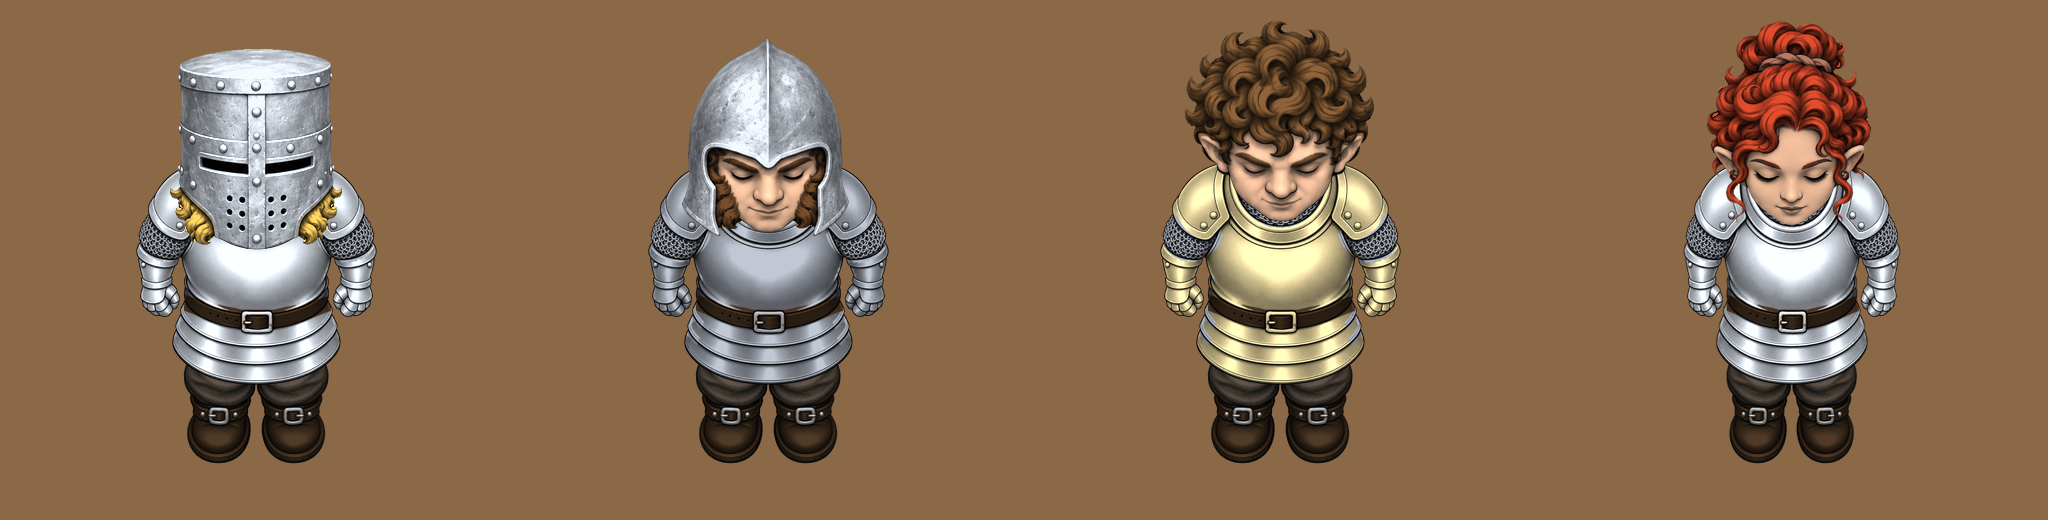
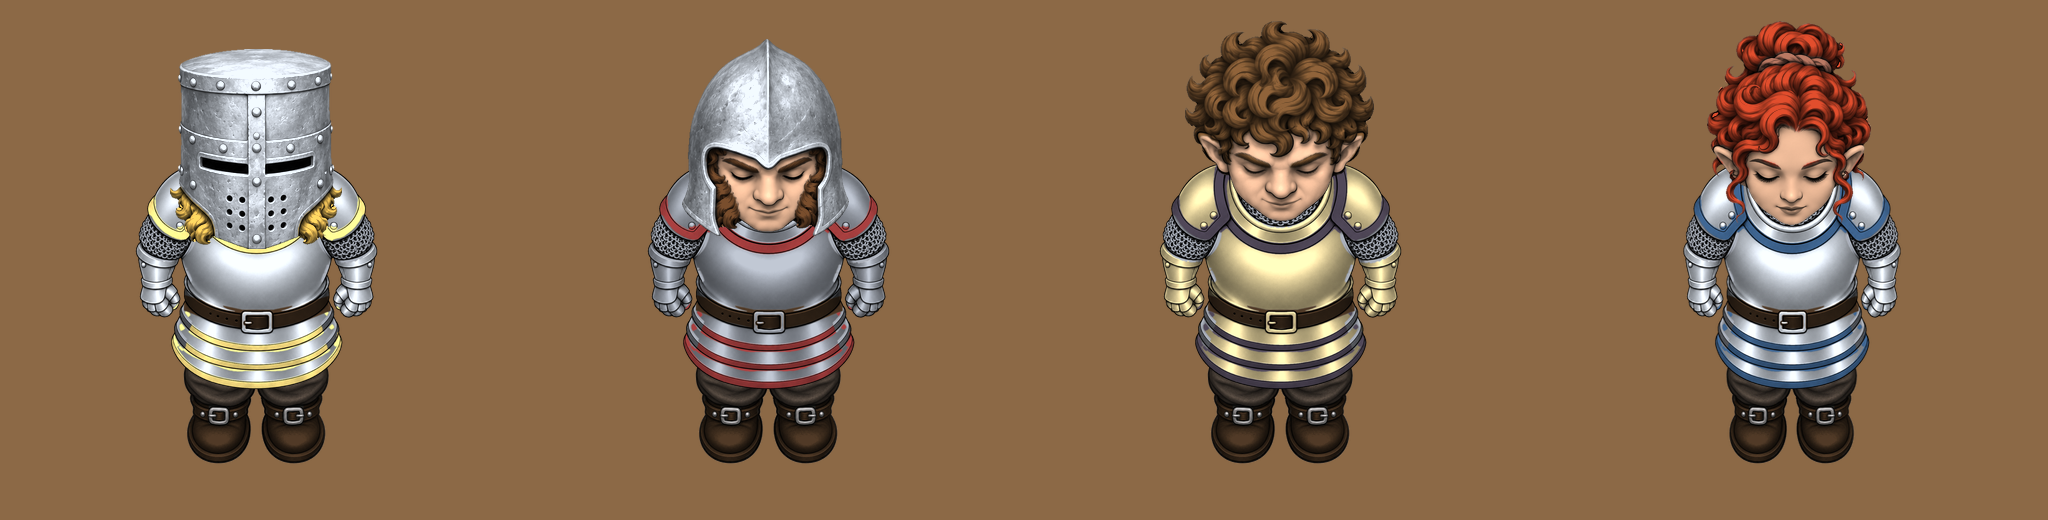
Kit personnages : plates standard à liserés teintables
Claude-Session: https://claude.ai/code/session_01F13QTHtRPRAg87rG7j2jCn

diff --git a/kit-personnages/outils/std.py b/kit-personnages/outils/std.py
@@ -252,7 +252,7 @@ def guard_lantern(P):
     P=paint((A,L),[(4,[(250,548),(462,548),(455,700),(470,800),(470,1260),(250,1260)])]);A,L=P
     box=np.zeros(L.shape,bool);box[1015:1165,300:440]=True;gl=box&(ndi.gaussian_filter(g,1.5)>205);gl=ndi.binary_opening(gl,iterations=2);L[gl]=70;L[A[...,3]<=40]=0;return A,L
 
-def plates(grey='../std/plt_relaxed.png'):
+def plates(grey='../std/plt2_relaxed.png',mp='../std/plt2_relaxed_map.png'):
     """Plates standard. Le calque de GPT a redessiné un autre corps (inutilisable) : tout est métal (4) ; les mailles (15) sont reprises du
     garde là où le dessin est resté grenu (manches, encolure) ; la ceinture (6) est la grande bande sombre du torse."""
     A,_=prep(grey,'../std/grd_relaxed_map.png');A0,L0=guard();al=A[...,3]>40;g=A[...,:3].mean(-1);L=np.where(al,4,0)
@@ -260,4 +260,7 @@ def plates(grey='../std/plt_relaxed.png'):
     # la ceinture : bande courbe relevée sur un gros plan (coordonnées du gros plan -> toile), limitée à ce qui est sombre (la boucle reste en métal)
     Z=[(215,418),(330,452),(450,478),(570,478),(690,452),(800,420),(800,482),(690,524),(570,552),(450,552),(330,524),(215,480)]
     pts=[((130+x/4-256)/.29+625,(230+y/4-229)/.29+360) for x,y in Z];Lb=paint((A,np.where(al,4,0)),[(6,pts)])[1];L[(Lb==6)&(ndi.gaussian_filter(g,1.5)<150)]=6
-    G.update({15:.8,4:.95,6:.75});return A,L
+    # liserés (14) : bandes mates et foncées, plus larges qu'un trait ; le calque de GPT (décalé de quelques px) ne sert qu'à dire où il y en a
+    Lm=prep(grey,mp)[1];gs=ndi.gaussian_filter(g,1.5);tr=ndi.binary_opening((gs<118)&al&(L==4),iterations=4)&ndi.binary_dilation(Lm==14,iterations=22);tr=ndi.binary_dilation(tr,iterations=3)&(gs<140)&(L==4)
+    L[tr]=14
+    G.update({15:.8,4:.95,6:.75,14:1.15});return A,L

diff --git a/kit-personnages/LISEZMOI.md b/kit-personnages/LISEZMOI.md
@@ -186,3 +186,4 @@ Aucun corps à redemander à GPT : toutes les tenues, poses et marches du nain s
 - **Garde standard, repos (unisexe)** : `standard/garde/body_std_guard_relaxed.png` + calque (VERT métal = 4, ORANGE mailles = 15 y compris l'encolure remplie, BLEU tabard = 5, JAUNE bordure = 14, CYAN ceinture = 6). `std.guard()`. **Ne jamais passer `std.pierce` sur une armure** : il perce les reflets blancs du métal. Aperçu avec les casques du halfelin : `planches/garde_standard.png`.
 - **Garde standard complet** : relaxed, walk_1, walk_3, grip (`std.guard_grip`), reach_lantern (`std.guard_lantern`, toile élargie `pad=120` ; vitres de la lanterne = matière 70, à teinter en jaune chaud et à faire vaciller). L'image de la lanterne est arrivée à un autre format et une autre échelle : remise à l'échelle (×1,11) et recalée sur le côté du corps qui n'a pas bougé avant `prep_from`. Aperçu : `planches/garde_standard_poses.png`. Marche avec l'arme en main : à assembler en code.
 - **Plates standard, repos (unisexes)** : `standard/plates/body_std_plate_relaxed.png`, `std.plates()`. Le calque de GPT a redessiné un autre corps, plus rond : non déposé, non utilisé. Tout est métal (4) ; mailles (15) reprises du garde là où le dessin est grenu ; ceinture (6) tracée à la main. Pas de liseré séparé (le nain avait une bordure teintable) : à ajouter si Yannick le veut. Aperçu : `planches/plates_standard.png`.
+- **Plates standard, version à liserés (retenue)** : l'armure a été corrigée par GPT (liserés larges et mats sous le col, au bas des trois lames, au bord des épaulières). Le 2e calque est proche mais pas superposable (4 bandes au lieu de 3 sur les lames) : il ne sert qu'à dire OÙ chercher les liserés (14), détectés dans le gris comme bandes foncées. Les liserés des lames restent coupés par les reflets. `std.plates()`.
